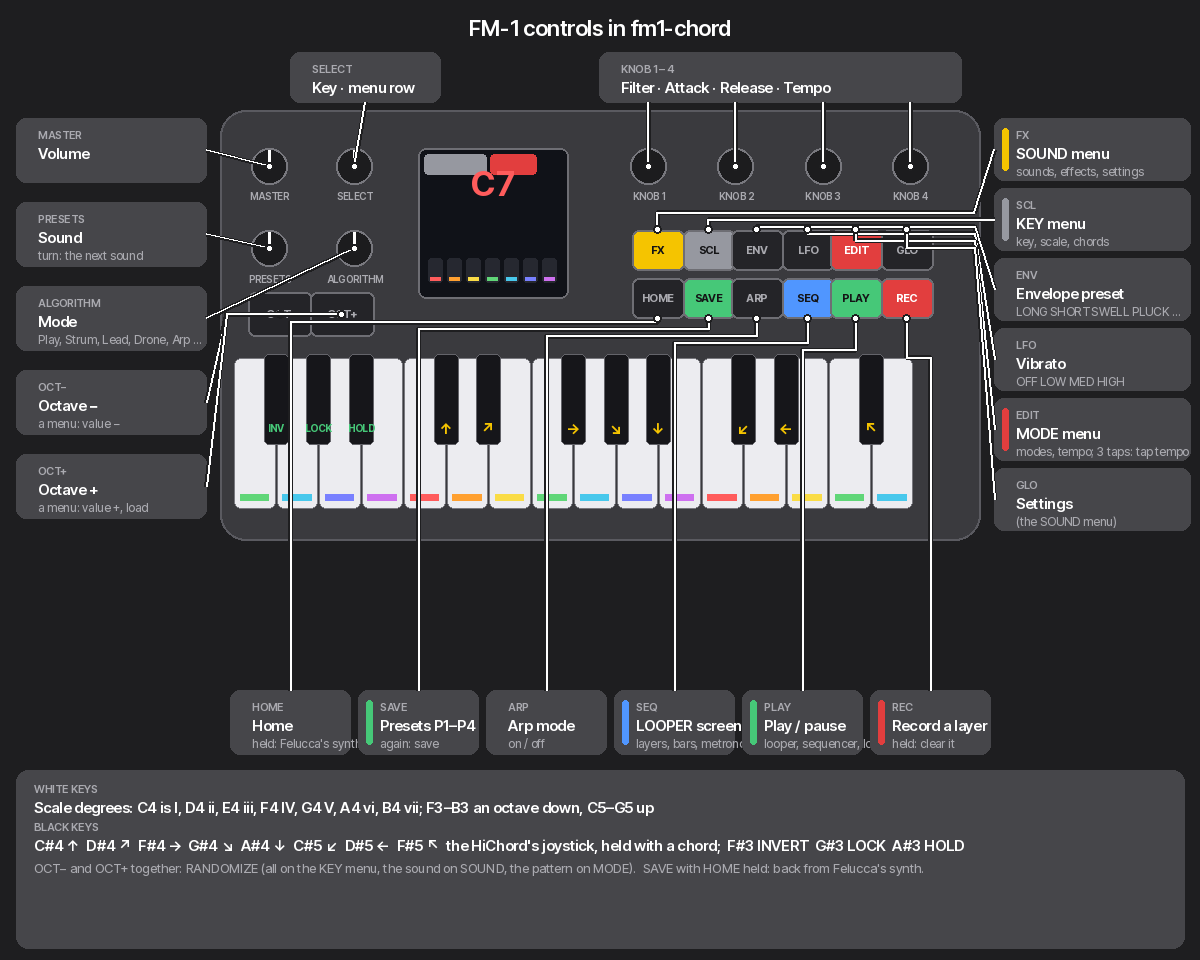
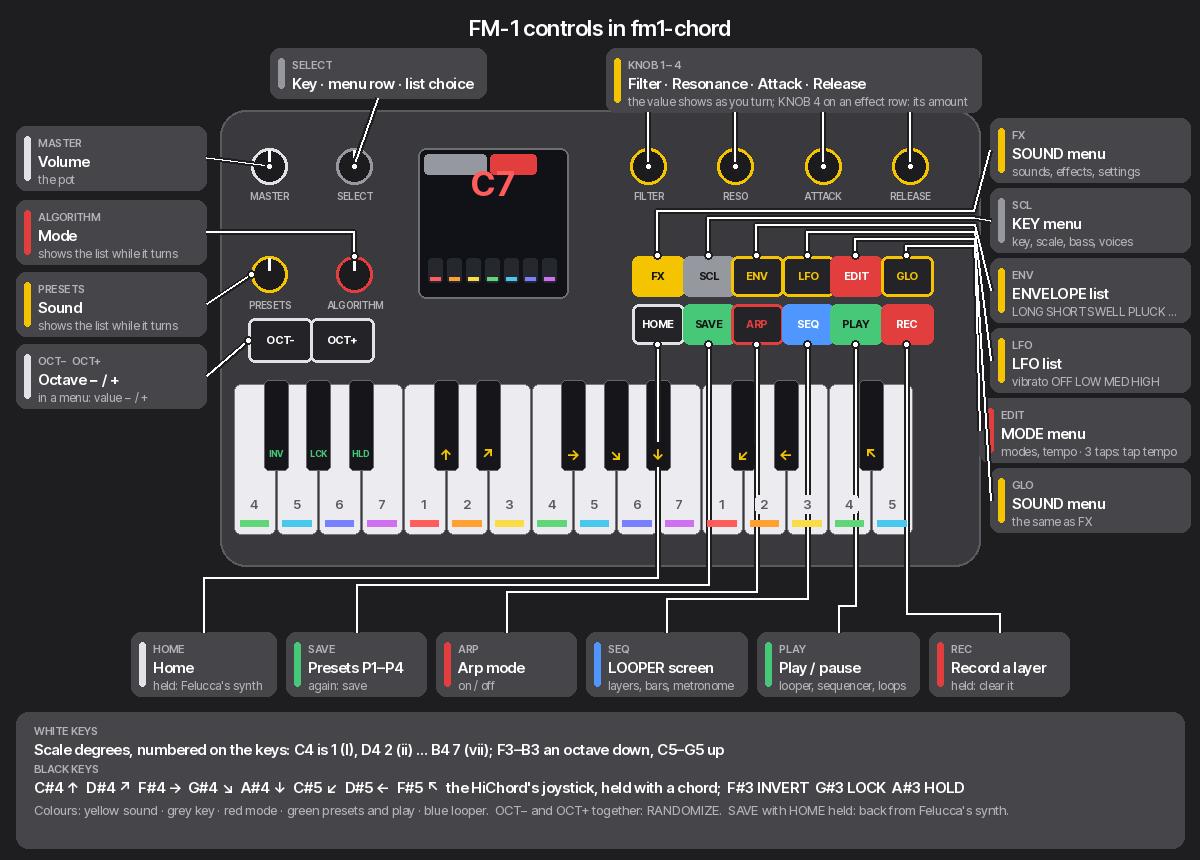
Controls diagram: cards sized to their text, one colour scheme, no line through a label
Every card is as wide as its longest line. A control is drawn in the colour
of what it opens (yellow sound, grey key, red mode, green presets and play,
blue looper) and its card carries the same bar; the legend says so. The
rows under the knobs sit 26 px lower so the top buttons' lanes fit between
the knob captions and the buttons; the bottom buttons drop straight
through the keys to lanes under the device, with the key labels redrawn
over the lines; the OCT pair shares a card; halos are drawn in a pass of
their own. The knobs are captioned by their function.

diff --git a/tools/gen_controls_diagram.py b/tools/gen_controls_diagram.py
@@ -3,7 +3,9 @@
 # Copyright (C) 2026 fm1-chord contributors
 """The fm1-chord controls diagram (screenshots/controls.png): a drawn schematic of the FM-1's panel (the
 geometry of Felucca's docs/panel.jpg: 8 knobs, 12 buttons in two rows, OCT- / OCT+, 27 keys) with every
-control labelled by what it does in the HiChord UI, in the HiChord's colours. Pillow only.
+control labelled by what it does in the HiChord UI. One colour scheme throughout: a control is drawn in
+the colour of what it opens or does (yellow sound, grey key, red mode, green presets and play, blue
+looper, white neutral), and its card carries the same bar. Cards size themselves to their text. Pillow only.
 
   gen_controls_diagram.py OUT.png
 """
@@ -14,10 +16,11 @@ from PIL import Image, ImageDraw, ImageFont
 
 ROOT = Path(__file__).resolve().parents[1]
 FONT = ROOT / "assets/fonts/InterTight[wght].ttf"
-W, H = 1200, 960
-BG, CARD, INK, DIM = (30, 30, 32), (70, 70, 74), (255, 255, 255), (170, 170, 176)
-GREY, YELLOW, RED, GREEN, BLUE = (150, 152, 160), (245, 196, 0), (226, 62, 62), (70, 200, 120), (80, 150, 255)
+W, H = 1200, 860
+BG, CARD, INK, DIM = (30, 30, 32), (70, 70, 74), (255, 255, 255), (178, 178, 184)
+GREY, YELLOW, RED, GREEN, BLUE, WHITE = (150, 152, 160), (245, 196, 0), (226, 62, 62), (70, 200, 120), (80, 150, 255), (225, 225, 230)
 DEG = [(255, 92, 92), (255, 160, 48), (250, 220, 70), (96, 214, 120), (72, 200, 236), (120, 128, 255), (206, 112, 240)]
+KEY_W, KEY_B = (236, 236, 240), (22, 22, 26)
 
 
 def font(size, weight=500):
@@ -29,29 +32,59 @@ def font(size, weight=500):
     return f
 
 
-# the device, drawn: a body of 760 x 420 at (220, 110); positions follow docs/panel.jpg
-DX, DY, DW, DH = 220, 110, 760, 430
+F_TITLE, F_BODY, F_SUB = font(11, 600), font(15, 600), font(12, 450)
+
+# the device, drawn: a body of 760 wide at (220, 110); positions follow docs/panel.jpg, with the rows
+# under the knobs pushed down 26 px to give the top buttons' leader lanes room
+DX, DY, DW, DH, PUSH = 220, 110, 760, 456, 26
 
 
 def dev(x, y):                       # photo pixels (1750 x 1050, crop 70..1680 x 60..960) -> canvas
-    return DX + (x - 70) * DW / 1610, DY + (y - 60) * DH / 900
+    return DX + (x - 70) * DW / 1610, DY + (y - 60) * 430 / 900 + (PUSH if y > 300 else 0)
 
 
 KNOBS = {"MASTER": (175, 178), "SELECT": (355, 178), "PRESETS": (175, 350), "ALGORITHM": (355, 350),
          "KNOB 1": (978, 178), "KNOB 2": (1163, 178), "KNOB 3": (1348, 178), "KNOB 4": (1533, 178)}
+KNOB_CAP = {"KNOB 1": "FILTER", "KNOB 2": "RESO", "KNOB 3": "ATTACK", "KNOB 4": "RELEASE"}
 BTN_X = (997, 1105, 1207, 1315, 1417, 1525)
 BUTTONS = {}
 for row, y, names in ((0, 352, "FX SCL ENV LFO EDIT GLO"), (1, 454, "HOME SAVE ARP SEQ PLAY REC")):
     for x, n in zip(BTN_X, names.split()):
         BUTTONS[n] = (x, y)
 BUTTONS["OCT-"], BUTTONS["OCT+"] = (198, 487), (328, 487)
-BTN_COL = {"SCL": GREY, "FX": YELLOW, "EDIT": RED, "SAVE": GREEN, "SEQ": BLUE, "PLAY": GREEN, "REC": RED}
+# what each button opens or does, by colour: sound yellow, key grey, mode red, presets / transport green, looper blue
+BTN_COL = {"FX": YELLOW, "ENV": YELLOW, "LFO": YELLOW, "GLO": YELLOW, "SCL": GREY, "EDIT": RED, "ARP": RED,
+           "SAVE": GREEN, "PLAY": GREEN, "SEQ": BLUE, "REC": RED, "HOME": WHITE, "OCT-": WHITE, "OCT+": WHITE}
+SOLID = {"FX", "SCL", "EDIT", "SAVE", "SEQ", "PLAY", "REC"}          # the menu / transport buttons: filled
+KNOB_COL = {"SELECT": GREY, "PRESETS": YELLOW, "ALGORITHM": RED, "KNOB 1": YELLOW, "KNOB 2": YELLOW, "KNOB 3": YELLOW,
+            "KNOB 4": YELLOW, "MASTER": WHITE}
+KW, KH = 40.5, 150                                       # a white key
+BLACK_AFTER = (0, 1, 2, 4, 5, 7, 8, 9, 11, 12, 14)       # the black keys: after these white keys
+BLACK_FN = ("INV", "LCK", "HLD", "↑", "↗", "→", "↘", "↓", "↙", "←", "↖")
+
+
+def white_x(i):
+    return dev(100, 580)[0] + i * (KW + 2)
+
+
+def key_labels(d, ky):
+    """the keys' labels, drawn last so the leader lines run behind them"""
+    for i in range(16):
+        x, deg = white_x(i), (i + 3) % 7
+        cx = x + KW / 2
+        d.rounded_rectangle((cx - 9, ky + KH - 39, cx + 9, ky + KH - 21), 4, fill=KEY_W)
+        d.text((cx, ky + KH - 30), str(deg + 1), fill=(90, 90, 96), font=font(13, 600), anchor="mm")
+        d.rectangle((x + 6, ky + KH - 14, x + KW - 6, ky + KH - 8), fill=DEG[deg])
+    for p, a in enumerate(BLACK_AFTER):
+        x = white_x(a) + KW - 11
+        col = GREEN if p < 3 else YELLOW
+        d.rounded_rectangle((x + 1, ky + 58, x + 23, ky + 82), 3, fill=KEY_B)
+        d.text((x + 12, ky + 70), BLACK_FN[p], fill=col, font=font(9 if p < 3 else 15, 700), anchor="mm")
 
 
 def draw_device(d):
     d.rounded_rectangle((DX, DY, DX + DW, DY + DH), 26, fill=(58, 58, 62), outline=(90, 90, 96), width=2)
-    # the screen
-    sx, sy = dev(490, 140)
+    sx, sy = dev(490, 140)                                   # the screen
     d.rounded_rectangle((sx, sy, sx + 150, sy + 150), 8, fill=(16, 18, 24), outline=(110, 110, 116), width=2)
     d.rounded_rectangle((sx + 6, sy + 6, sx + 68, sy + 26), 4, fill=GREY)
     d.rounded_rectangle((sx + 72, sy + 6, sx + 118, sy + 26), 4, fill=RED)
@@ -59,122 +92,130 @@ def draw_device(d):
     for i in range(7):
         d.rounded_rectangle((sx + 10 + i * 19, sy + 110, sx + 24 + i * 19, sy + 134), 3, fill=(38, 40, 48))
         d.rectangle((sx + 12 + i * 19, sy + 129, sx + 22 + i * 19, sy + 132), fill=DEG[i])
-    # the knobs
-    for n, (x, y) in KNOBS.items():
+    for n, (x, y) in KNOBS.items():                           # the knobs, ringed in their colour
         cx, cy = dev(x, y)
-        d.ellipse((cx - 18, cy - 18, cx + 18, cy + 18), fill=(28, 28, 30), outline=(120, 120, 126), width=2)
+        d.ellipse((cx - 18, cy - 18, cx + 18, cy + 18), fill=(28, 28, 30), outline=KNOB_COL[n], width=3)
         d.line((cx, cy - 4, cx, cy - 16), fill=INK, width=3)
-        d.text((cx, cy + 30), n, fill=DIM, font=font(10, 600), anchor="mm")
-    # the buttons
-    for n, (x, y) in BUTTONS.items():
+        d.text((cx, cy + 30), KNOB_CAP.get(n, n), fill=DIM, font=font(10, 600), anchor="mm")
+    for n, (x, y) in BUTTONS.items():                         # the buttons: filled, or ringed, in their colour
         cx, cy = dev(x, y)
         w, h = (32, 22) if n.startswith("OCT") else (26, 20)
-        col = BTN_COL.get(n, (40, 40, 44))
-        d.rounded_rectangle((cx - w, cy - h, cx + w, cy + h), 7, fill=col if n in BTN_COL else (36, 36, 40),
-                            outline=(110, 110, 116), width=2)
-        d.text((cx, cy), n, fill=INK if n in ("EDIT", "REC") else (20, 20, 22) if n in BTN_COL else DIM,
-               font=font(11, 700), anchor="mm")
-    # the keys: 16 white, 11 black
-    kx0, ky = dev(100, 580)
-    kw, kh = 40.5, 150
-    whites = []
+        col = BTN_COL[n]
+        if n in SOLID:
+            d.rounded_rectangle((cx - w, cy - h, cx + w, cy + h), 7, fill=col, outline=col, width=2)
+            d.text((cx, cy), n, fill=INK if col in (RED, BLUE) else (20, 20, 22), font=font(11, 700), anchor="mm")
+        else:
+            d.rounded_rectangle((cx - w, cy - h, cx + w, cy + h), 7, fill=(36, 36, 40), outline=col, width=3)
+            d.text((cx, cy), n, fill=col if col != WHITE else INK, font=font(11, 700), anchor="mm")
+    ky = dev(100, 580)[1]                                     # the keys: 16 white, 11 black (labels later)
     for i in range(16):
-        x = kx0 + i * (kw + 2)
-        deg = (i + 3) % 7
-        d.rounded_rectangle((x, ky, x + kw, ky + kh), 7, fill=(236, 236, 240), outline=(120, 120, 126), width=1)
-        d.rectangle((x + 6, ky + kh - 14, x + kw - 6, ky + kh - 8), fill=DEG[deg])
-        whites.append(x)
-    after = (0, 1, 2, 4, 5, 7, 8, 9, 11, 12, 14)
-    fn = ("INV", "LOCK", "HOLD", "↑", "↗", "→", "↘", "↓", "↙", "←", "↖")
-    for p, a in enumerate(after):
-        x = whites[a] + kw - 11
-        col = GREEN if p < 3 else YELLOW
-        d.rounded_rectangle((x, ky - 4, x + 24, ky + 86), 5, fill=(22, 22, 26), outline=(100, 100, 106), width=1)
-        d.text((x + 12, ky + 70), fn[p], fill=col, font=font(10 if p < 3 else 15, 700), anchor="mm")
-    return whites, kx0, ky, kw, kh
+        x = white_x(i)
+        d.rounded_rectangle((x, ky, x + KW, ky + KH), 7, fill=KEY_W, outline=(120, 120, 126), width=1)
+    for a in BLACK_AFTER:
+        x = white_x(a) + KW - 11
+        d.rounded_rectangle((x, ky - 4, x + 24, ky + 86), 5, fill=KEY_B, outline=(100, 100, 106), width=1)
+    return ky
 
 
-def card(d, x, y, w, h, title, body, col=None, sub=None):
+def card_size(d, title, body, sub, min_w=0):
+    w = max(d.textlength(title, font=F_TITLE), d.textlength(body, font=F_BODY),
+            d.textlength(sub, font=F_SUB) if sub else 0) + 22 + 14
+    return int(max(w, min_w)), 64 if sub else 50
+
+
+def card(d, x, y, title, body, col, sub=None, min_w=0, right=None):
+    w, h = card_size(d, title, body, sub, min_w)
+    if right is not None:
+        x = right - w
     d.rounded_rectangle((x, y, x + w, y + h), 10, fill=CARD)
-    if col:
-        d.rounded_rectangle((x + 8, y + 10, x + 14, y + h - 10), 3, fill=col)
-    d.text((x + 22, y + 10), title, fill=DIM, font=font(11, 600))
-    d.text((x + 22, y + 26), body, fill=INK, font=font(15, 600))
+    d.rounded_rectangle((x + 8, y + 10, x + 14, y + h - 10), 3, fill=col)
+    d.text((x + 22, y + 10), title, fill=DIM, font=F_TITLE)
+    d.text((x + 22, y + 26), body, fill=INK, font=F_BODY)
     if sub:
-        d.text((x + 22, y + 46), sub, fill=DIM, font=font(12, 450))
+        d.text((x + 22, y + 46), sub, fill=DIM, font=F_SUB)
     return (x, y, x + w, y + h)
 
 
-def leader(d, p0, p1, mid=None):
-    pts = [p0] + ([mid] if mid else []) + [p1]
-    d.line(pts, fill=BG, width=5, joint="curve")
-    d.line(pts, fill=INK, width=2, joint="curve")
-    d.ellipse((p0[0] - 4, p0[1] - 4, p0[0] + 4, p0[1] + 4), fill=INK, outline=BG, width=2)
+ROUTES = []                                               # (points, dot): drawn in two passes, halos first
+
+
+def route(pts, dot):
+    ROUTES.append((pts, dot))
+
+
+def draw_routes(d):
+    for pts, dot in ROUTES:
+        d.line(pts, fill=BG, width=6, joint="curve")
+    for pts, dot in ROUTES:
+        d.line(pts, fill=INK, width=2, joint="curve")
+        d.ellipse((dot[0] - 4, dot[1] - 4, dot[0] + 4, dot[1] + 4), fill=INK, outline=BG, width=2)
 
 
 def main(out):
     im = Image.new("RGB", (W, H), BG)
     d = ImageDraw.Draw(im)
     d.text((W / 2, 28), "FM-1 controls in fm1-chord", fill=INK, font=font(22, 600), anchor="mm")
-    whites, kx0, ky, kw, kh = draw_device(d)
-    # left column
-    left = (("MASTER", "Volume", None, None), ("PRESETS", "Sound", "turn: the next sound", None),
-            ("ALGORITHM", "Mode", "Play, Strum, Lead, Drone, Arp …", None), ("OCT−", "Octave −", "a menu: value −", None),
-            ("OCT+", "Octave +", "a menu: value +, load", None))
-    anchors = ("MASTER", "PRESETS", "ALGORITHM", "OCT-", "OCT+")
-    for i, ((t, b, s, _), a) in enumerate(zip(left, anchors)):
-        y = 118 + i * 84
-        box = card(d, 16, y, 190, 64, t, b, None, s)
-        src = KNOBS.get(a) or BUTTONS[a]
-        leader(d, dev(*src), (box[2], (box[1] + box[3]) / 2), (DX + 6, dev(*src)[1]) if a.startswith("OCT") else None)
-    # top
-    box = card(d, 290, 52, 150, 50, "SELECT", "Key · menu row")
-    leader(d, dev(*KNOBS["SELECT"]), ((box[0] + box[2]) / 2, box[3]))
-    kx1, kx4 = dev(*KNOBS["KNOB 1"])[0], dev(*KNOBS["KNOB 4"])[0]
-    box = card(d, kx1 - 50, 52, kx4 - kx1 + 100, 50, "KNOB 1 – 4", "Filter · Attack · Release · Tempo")
+    ky = draw_device(d)
+    # left column: each card level with its control; the ALGORITHM one is reached over the PRESETS knob
+    mx, my = dev(*KNOBS["MASTER"])
+    px, py = dev(*KNOBS["PRESETS"])
+    gx, gy = dev(*KNOBS["ALGORITHM"])
+    ox, oy = dev(*BUTTONS["OCT-"])
+    left = (("MASTER", "Volume", "the pot", WHITE, 126, [(mx, my)]),
+            ("ALGORITHM", "Mode", "shows the list while it turns", RED, 200, [(gx, gy - 18), (gx, 232)]),
+            ("PRESETS", "Sound", "shows the list while it turns", YELLOW, 272, [(px - 18, py)]),
+            ("OCT−  OCT+", "Octave − / +", "in a menu: value − / +", WHITE, 344, [(ox - 32, oy)]))
+    for t, b, s, col, y, pts in left:
+        box = card(d, 16, y, t, b, col, s, min_w=190)
+        route(pts + [(box[2], (box[1] + box[3]) / 2)], pts[0])
+    # top: SELECT, the four knobs
+    box = card(d, 270, 48, "SELECT", "Key · menu row · list choice", GREY)
+    route([dev(*KNOBS["SELECT"]), ((box[0] + box[2]) / 2, box[3])], dev(*KNOBS["SELECT"]))
+    kx4 = dev(*KNOBS["KNOB 4"])[0]
+    box = card(d, 0, 48, "KNOB 1 – 4", "Filter · Resonance · Attack · Release",
+               YELLOW, "the value shows as you turn; KNOB 4 on an effect row: its amount", right=kx4 + 70)
     for k in range(4):
-        x = dev(*KNOBS[f"KNOB {k + 1}"])[0]
-        leader(d, (x, dev(*KNOBS["KNOB 1"])[1]), (x, box[3]))
-    # right column: the top row of buttons
-    right = (("FX", "SOUND menu", "sounds, effects, settings", YELLOW), ("SCL", "KEY menu", "key, scale, chords", GREY),
-             ("ENV", "Envelope preset", "LONG SHORT SWELL PLUCK …", None), ("LFO", "Vibrato", "OFF LOW MED HIGH", None),
-             ("EDIT", "MODE menu", "modes, tempo; 3 taps: tap tempo", RED), ("GLO", "Settings", "(the SOUND menu)", None))
+        x, y = dev(*KNOBS[f"KNOB {k + 1}"])
+        route([(x, y), (x, box[3])], (x, y))
+    # right column: the top row of buttons, their lanes between the knob captions and the buttons
+    right = (("FX", "SOUND menu", "sounds, effects, settings", YELLOW), ("SCL", "KEY menu", "key, scale, bass, voices", GREY),
+             ("ENV", "ENVELOPE list", "LONG SHORT SWELL PLUCK …", YELLOW), ("LFO", "LFO list", "vibrato OFF LOW MED HIGH", YELLOW),
+             ("EDIT", "MODE menu", "modes, tempo · 3 taps: tap tempo", RED), ("GLO", "SOUND menu", "the same as FX", YELLOW))
     for i, (n, b, s, col) in enumerate(right):
         y = 118 + i * 70
-        box = card(d, 994, y, 196, 62, n, b, col, s)
+        box = card(d, 0, y, n, b, col, s, min_w=200, right=W - 10)
         ax, ay = dev(*BUTTONS[n])
-        lane = DY + 102 + i * 7
-        pts = [(ax, ay - 20), (ax, lane), (DX + DW - 6, lane), (box[0], (box[1] + box[3]) / 2)]
-        d.line(pts, fill=BG, width=5, joint="curve")
-        d.line(pts, fill=INK, width=2, joint="curve")
-        d.ellipse((ax - 4, ay - 24, ax + 4, ay - 16), fill=INK, outline=BG, width=2)
-    # bottom row: HOME SAVE ARP SEQ PLAY REC
-    bottom = (("HOME", "Home", "held: Felucca's synth", None), ("SAVE", "Presets P1–P4", "again: save", GREEN),
-              ("ARP", "Arp mode", "on / off", None), ("SEQ", "LOOPER screen", "layers, bars, metronome", BLUE),
+        lane = DY + 100 + i * 7
+        route([(ax, ay - 20), (ax, lane), (DX + DW - 6, lane), (box[0], (box[1] + box[3]) / 2)], (ax, ay - 20))
+    # bottom row: HOME SAVE ARP SEQ PLAY REC, straight down through the keys to lanes under the device
+    bottom = (("HOME", "Home", "held: Felucca's synth", WHITE), ("SAVE", "Presets P1–P4", "again: save", GREEN),
+              ("ARP", "Arp mode", "on / off", RED), ("SEQ", "LOOPER screen", "layers, bars, metronome", BLUE),
               ("PLAY", "Play / pause", "looper, sequencer, loops", GREEN), ("REC", "Record a layer", "held: clear it", RED))
-    by = DY + DH + 150
-    for i, (n, b, s, col) in enumerate(bottom):
-        x = 230 + i * 128
-        box = card(d, x, by, 120, 64, n, b, col, s)
+    sizes = [card_size(d, n, b, s, 140) for n, b, s, _ in bottom]
+    gap, total = 10, sum(w for w, _ in sizes) + 10 * 5
+    x = (W - total) / 2
+    by = DY + DH + 66
+    for i, ((n, b, s, col), (w, _)) in enumerate(zip(bottom, sizes)):
+        box = card(d, int(x), by, n, b, col, s, min_w=140)
         ax, ay = dev(*BUTTONS[n])
         cx = (box[0] + box[2]) / 2
-        lane = DY + 212 + i * 7
-        pts = [(ax, ay + 20), (ax, lane), (cx, lane), (cx, box[1])]
-        d.line(pts, fill=BG, width=5, joint="curve")
-        d.line(pts, fill=INK, width=2, joint="curve")
-        d.ellipse((ax - 4, ay + 16, ax + 4, ay + 24), fill=INK, outline=BG, width=2)
+        lane = DY + DH + 12 + i * 7
+        route([(ax, ay + 20), (ax, lane), (cx, lane), (cx, box[1])], (ax, ay + 20))
+        x += w + gap
+    draw_routes(d)
+    key_labels(d, ky)
     # the keys' legend, under the keys
     ly = by + 80
     d.rounded_rectangle((16, ly, W - 16, H - 12), 12, fill=CARD)
     f15, f13 = font(15, 600), font(13, 450)
-    d.text((34, ly + 12), "WHITE KEYS", fill=DIM, font=font(11, 600))
-    d.text((34, ly + 28), "Scale degrees: C4 is I, D4 ii, E4 iii, F4 IV, G4 V, A4 vi, B4 vii; F3–B3 an octave down, C5–G5 up",
+    d.text((34, ly + 12), "WHITE KEYS", fill=DIM, font=F_TITLE)
+    d.text((34, ly + 28), "Scale degrees, numbered on the keys: C4 is 1 (I), D4 2 (ii) … B4 7 (vii); F3–B3 an octave down, C5–G5 up",
            fill=INK, font=f15)
-    d.text((34, ly + 50), "BLACK KEYS", fill=DIM, font=font(11, 600))
+    d.text((34, ly + 50), "BLACK KEYS", fill=DIM, font=F_TITLE)
     d.text((34, ly + 66), "C#4 ↑  D#4 ↗  F#4 →  G#4 ↘  A#4 ↓  C#5 ↙  D#5 ←  F#5 ↖  the HiChord's joystick, held with a chord;  "
                           "F#3 INVERT  G#3 LOCK  A#3 HOLD", fill=INK, font=f15)
-    d.text((34, ly + 90), "OCT− and OCT+ together: RANDOMIZE (all on the KEY menu, the sound on SOUND, the pattern on MODE).  "
-                          "SAVE with HOME held: back from Felucca's synth.", fill=DIM, font=f13)
+    d.text((34, ly + 90), "Colours: yellow sound · grey key · red mode · green presets and play · blue looper.  "
+                          "OCT− and OCT+ together: RANDOMIZE.  SAVE with HOME held: back from Felucca's synth.", fill=DIM, font=f13)
     im.save(out)
     print(out)
 

diff --git a/firmware/src/hui.c b/firmware/src/hui.c
@@ -9,7 +9,7 @@
  *   OCT- / +  the value of the row (a menu); the octave (HOME); both: RANDOMIZE (ALL on KEY, the sound on
  *             SOUND, the pattern on MODE)
  *   ALGORITHM the play mode, PRESETS the sound, KNOB 1 the FILTER wheel, KNOB 2 RESONANCE, KNOB 3 ATTACK, KNOB 4 RELEASE,
- *             KNOB 4 the tempo: on every screen
+ *             the value shown in the header as it turns (KNOB 4 on a SOUND effect row: the amount): on every screen
  *   ENV / LFO the envelope preset / the vibrato; ARP: ARP mode and back; EDIT tapped three times: tap tempo
  * Included after Felucca's ui*.c (it uses their drawing, sounds and projects); ui_input / ui_draw / ui_leds
  * hand over to hui_* while hui.on. */
